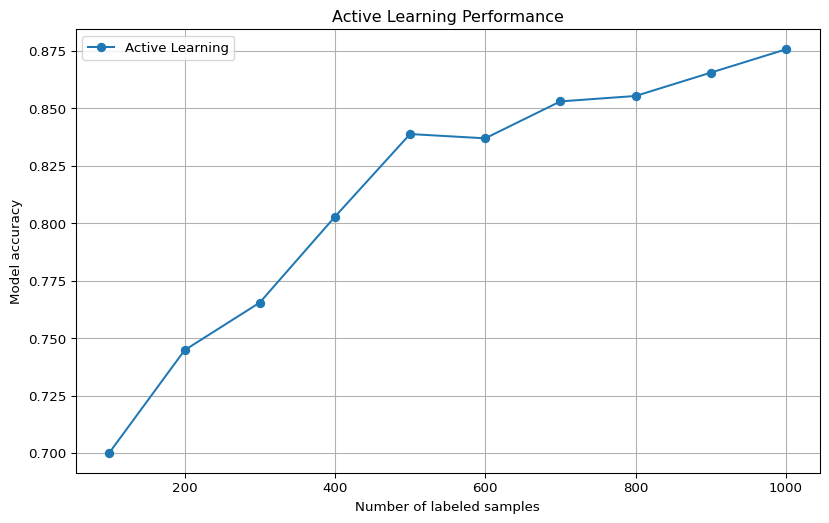
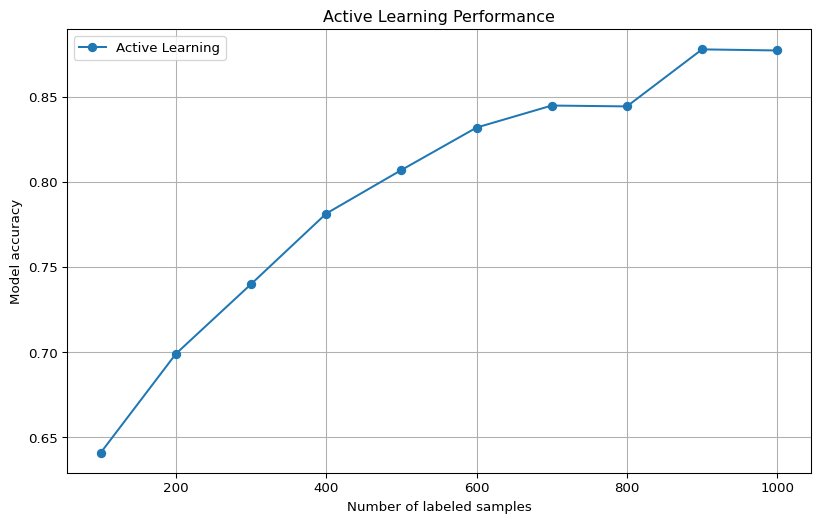
Built site for gh-pages

diff --git a/posts/model-training/influence-selection/index.html b/posts/model-training/influence-selection/index.html
@@ -248,7 +248,7 @@ pre > code.sourceCode > span > a:first-child::before { text-decoration: underlin
 <p>These methods select samples that the model is most uncertain about.</p>
 <section id="least-confidence" class="level3">
 <h3 class="anchored" data-anchor-id="least-confidence">Least Confidence</h3>
-<div id="17c171ca" class="cell" data-execution_count="1">
+<div id="18c45f50" class="cell" data-execution_count="1">
 <div class="sourceCode cell-code" id="cb1"><pre class="sourceCode python code-with-copy"><code class="sourceCode python"><span id="cb1-1"><a href="#cb1-1" aria-hidden="true" tabindex="-1"></a><span class="kw">def</span> least_confidence(model, unlabeled_pool, k):</span>
 <span id="cb1-2"><a href="#cb1-2" aria-hidden="true" tabindex="-1"></a>    <span class="co"># Predict probabilities for each sample in the unlabeled pool</span></span>
 <span id="cb1-3"><a href="#cb1-3" aria-hidden="true" tabindex="-1"></a>    probabilities <span class="op">=</span> model.predict_proba(unlabeled_pool)</span>
@@ -265,7 +265,7 @@ pre > code.sourceCode > span > a:first-child::before { text-decoration: underlin
 <section id="margin-sampling" class="level3">
 <h3 class="anchored" data-anchor-id="margin-sampling">Margin Sampling</h3>
 <p>Selects samples with the smallest margin between the two most likely classes:</p>
-<div id="ed119f3c" class="cell" data-execution_count="2">
+<div id="49259a6b" class="cell" data-execution_count="2">
 <div class="sourceCode cell-code" id="cb2"><pre class="sourceCode python code-with-copy"><code class="sourceCode python"><span id="cb2-1"><a href="#cb2-1" aria-hidden="true" tabindex="-1"></a><span class="kw">def</span> margin_sampling(model, unlabeled_pool, k):</span>
 <span id="cb2-2"><a href="#cb2-2" aria-hidden="true" tabindex="-1"></a>    <span class="co"># Predict probabilities for each sample in the unlabeled pool</span></span>
 <span id="cb2-3"><a href="#cb2-3" aria-hidden="true" tabindex="-1"></a>    probabilities <span class="op">=</span> model.predict_proba(unlabeled_pool)</span>
@@ -285,7 +285,7 @@ pre > code.sourceCode > span > a:first-child::before { text-decoration: underlin
 <section id="entropy-based-sampling" class="level3">
 <h3 class="anchored" data-anchor-id="entropy-based-sampling">Entropy-Based Sampling</h3>
 <p>Selects samples with the highest predictive entropy:</p>
-<div id="f6b754e5" class="cell" data-execution_count="3">
+<div id="f2f0cc96" class="cell" data-execution_count="3">
 <div class="sourceCode cell-code" id="cb3"><pre class="sourceCode python code-with-copy"><code class="sourceCode python"><span id="cb3-1"><a href="#cb3-1" aria-hidden="true" tabindex="-1"></a><span class="kw">def</span> entropy_sampling(model, unlabeled_pool, k):</span>
 <span id="cb3-2"><a href="#cb3-2" aria-hidden="true" tabindex="-1"></a>    <span class="co"># Predict probabilities for each sample in the unlabeled pool</span></span>
 <span id="cb3-3"><a href="#cb3-3" aria-hidden="true" tabindex="-1"></a>    probabilities <span class="op">=</span> model.predict_proba(unlabeled_pool)</span>
@@ -302,7 +302,7 @@ pre > code.sourceCode > span > a:first-child::before { text-decoration: underlin
 <section id="bayesian-active-learning-by-disagreement-bald" class="level3">
 <h3 class="anchored" data-anchor-id="bayesian-active-learning-by-disagreement-bald">Bayesian Active Learning by Disagreement (BALD)</h3>
 <p>For Bayesian models, BALD selects samples that maximize the mutual information between predictions and model parameters:</p>
-<div id="c34f3cd7" class="cell" data-execution_count="4">
+<div id="0d2ed53f" class="cell" data-execution_count="4">
 <div class="sourceCode cell-code" id="cb4"><pre class="sourceCode python code-with-copy"><code class="sourceCode python"><span id="cb4-1"><a href="#cb4-1" aria-hidden="true" tabindex="-1"></a><span class="kw">def</span> bald_sampling(bayesian_model, unlabeled_pool, k, n_samples<span class="op">=</span><span class="dv">100</span>):</span>
 <span id="cb4-2"><a href="#cb4-2" aria-hidden="true" tabindex="-1"></a>    <span class="co"># Get multiple predictions by sampling from the model's posterior</span></span>
 <span id="cb4-3"><a href="#cb4-3" aria-hidden="true" tabindex="-1"></a>    probs_samples <span class="op">=</span> []</span>
@@ -338,7 +338,7 @@ pre > code.sourceCode > span > a:first-child::before { text-decoration: underlin
 <p>These methods aim to select a diverse set of examples to ensure broad coverage of the input space.</p>
 <section id="clustering-based-sampling" class="level3">
 <h3 class="anchored" data-anchor-id="clustering-based-sampling">Clustering-Based Sampling</h3>
-<div id="ee44c376" class="cell" data-execution_count="5">
+<div id="4248ccbf" class="cell" data-execution_count="5">
 <div class="sourceCode cell-code" id="cb5"><pre class="sourceCode python code-with-copy"><code class="sourceCode python"><span id="cb5-1"><a href="#cb5-1" aria-hidden="true" tabindex="-1"></a><span class="kw">def</span> clustering_based_sampling(unlabeled_pool, k, n_clusters<span class="op">=</span><span class="va">None</span>):</span>
 <span id="cb5-2"><a href="#cb5-2" aria-hidden="true" tabindex="-1"></a>    <span class="cf">if</span> n_clusters <span class="kw">is</span> <span class="va">None</span>:</span>
 <span id="cb5-3"><a href="#cb5-3" aria-hidden="true" tabindex="-1"></a>        n_clusters <span class="op">=</span> k</span>
@@ -372,7 +372,7 @@ pre > code.sourceCode > span > a:first-child::before { text-decoration: underlin
 <section id="core-set-approach" class="level3">
 <h3 class="anchored" data-anchor-id="core-set-approach">Core-Set Approach</h3>
 <p>The core-set approach aims to select a subset of data that best represents the whole dataset:</p>
-<div id="c47ac304" class="cell" data-execution_count="6">
+<div id="bf51f60e" class="cell" data-execution_count="6">
 <div class="sourceCode cell-code" id="cb6"><pre class="sourceCode python code-with-copy"><code class="sourceCode python"><span id="cb6-1"><a href="#cb6-1" aria-hidden="true" tabindex="-1"></a><span class="kw">def</span> core_set_sampling(labeled_pool, unlabeled_pool, k):</span>
 <span id="cb6-2"><a href="#cb6-2" aria-hidden="true" tabindex="-1"></a>    <span class="co"># Combine labeled and unlabeled data for distance calculations</span></span>
 <span id="cb6-3"><a href="#cb6-3" aria-hidden="true" tabindex="-1"></a>    all_data <span class="op">=</span> np.vstack((labeled_pool, unlabeled_pool))</span>
@@ -397,7 +397,7 @@ pre > code.sourceCode > span > a:first-child::before { text-decoration: underlin
 <section id="expected-model-change" class="level2">
 <h2 class="anchored" data-anchor-id="expected-model-change">Expected Model Change</h2>
 <p>The Expected Model Change (EMC) method selects samples that would cause the greatest change in the model if they were labeled:</p>
-<div id="6e82f613" class="cell" data-execution_count="7">
+<div id="477b658a" class="cell" data-execution_count="7">
 <div class="sourceCode cell-code" id="cb7"><pre class="sourceCode python code-with-copy"><code class="sourceCode python"><span id="cb7-1"><a href="#cb7-1" aria-hidden="true" tabindex="-1"></a><span class="kw">def</span> expected_model_change(model, unlabeled_pool, k):</span>
 <span id="cb7-2"><a href="#cb7-2" aria-hidden="true" tabindex="-1"></a>    <span class="co"># Predict probabilities for each sample in the unlabeled pool</span></span>
 <span id="cb7-3"><a href="#cb7-3" aria-hidden="true" tabindex="-1"></a>    probabilities <span class="op">=</span> model.predict_proba(unlabeled_pool)</span>
@@ -431,7 +431,7 @@ pre > code.sourceCode > span > a:first-child::before { text-decoration: underlin
 <section id="expected-error-reduction" class="level2">
 <h2 class="anchored" data-anchor-id="expected-error-reduction">Expected Error Reduction</h2>
 <p>The Expected Error Reduction method selects samples that, when labeled, would minimally reduce the model’s expected error:</p>
-<div id="fc30d0f4" class="cell" data-execution_count="8">
+<div id="86d341a2" class="cell" data-execution_count="8">
 <div class="sourceCode cell-code" id="cb8"><pre class="sourceCode python code-with-copy"><code class="sourceCode python"><span id="cb8-1"><a href="#cb8-1" aria-hidden="true" tabindex="-1"></a><span class="kw">def</span> expected_error_reduction(model, unlabeled_pool, unlabeled_pool_remaining, k):</span>
 <span id="cb8-2"><a href="#cb8-2" aria-hidden="true" tabindex="-1"></a>    <span class="co"># Predict probabilities for all remaining unlabeled data</span></span>
 <span id="cb8-3"><a href="#cb8-3" aria-hidden="true" tabindex="-1"></a>    current_probs <span class="op">=</span> model.predict_proba(unlabeled_pool_remaining)</span>
@@ -473,7 +473,7 @@ pre > code.sourceCode > span > a:first-child::before { text-decoration: underlin
 <section id="influence-functions" class="level2">
 <h2 class="anchored" data-anchor-id="influence-functions">Influence Functions</h2>
 <p>Influence functions approximate the effect of adding or removing a training example without retraining the model:</p>
-<div id="76ea6a67" class="cell" data-execution_count="9">
+<div id="346e8092" class="cell" data-execution_count="9">
 <div class="sourceCode cell-code" id="cb9"><pre class="sourceCode python code-with-copy"><code class="sourceCode python"><span id="cb9-1"><a href="#cb9-1" aria-hidden="true" tabindex="-1"></a><span class="kw">def</span> influence_function_sampling(model, unlabeled_pool, labeled_pool, k, labels):</span>
 <span id="cb9-2"><a href="#cb9-2" aria-hidden="true" tabindex="-1"></a>    influences <span class="op">=</span> []</span>
 <span id="cb9-3"><a href="#cb9-3" aria-hidden="true" tabindex="-1"></a>    </span>
@@ -493,7 +493,7 @@ pre > code.sourceCode > span > a:first-child::before { text-decoration: underlin
 <section id="query-by-committee" class="level2">
 <h2 class="anchored" data-anchor-id="query-by-committee">Query-by-Committee</h2>
 <p>Query-by-Committee (QBC) methods train multiple models (a committee) and select samples where they disagree:</p>
-<div id="342af66c" class="cell" data-execution_count="10">
+<div id="9597bd48" class="cell" data-execution_count="10">
 <div class="sourceCode cell-code" id="cb10"><pre class="sourceCode python code-with-copy"><code class="sourceCode python"><span id="cb10-1"><a href="#cb10-1" aria-hidden="true" tabindex="-1"></a><span class="kw">def</span> query_by_committee(committee_models, unlabeled_pool, k):</span>
 <span id="cb10-2"><a href="#cb10-2" aria-hidden="true" tabindex="-1"></a>    <span class="co"># Get predictions from all committee members</span></span>
 <span id="cb10-3"><a href="#cb10-3" aria-hidden="true" tabindex="-1"></a>    all_predictions <span class="op">=</span> []</span>
@@ -529,7 +529,7 @@ pre > code.sourceCode > span > a:first-child::before { text-decoration: underlin
 <ol type="1">
 <li><strong>Greedy Selection with Diversity</strong>: Select one sample at a time, then update the diversity metrics to avoid selecting similar samples.</li>
 </ol>
-<div id="30c91437" class="cell" data-execution_count="11">
+<div id="c1d1a685" class="cell" data-execution_count="11">
 <div class="sourceCode cell-code" id="cb11"><pre class="sourceCode python code-with-copy"><code class="sourceCode python"><span id="cb11-1"><a href="#cb11-1" aria-hidden="true" tabindex="-1"></a><span class="kw">def</span> batch_selection_with_diversity(model, unlabeled_pool, k, lambda_diversity<span class="op">=</span><span class="fl">0.5</span>):</span>
 <span id="cb11-2"><a href="#cb11-2" aria-hidden="true" tabindex="-1"></a>    selected_indices <span class="op">=</span> []</span>
 <span id="cb11-3"><a href="#cb11-3" aria-hidden="true" tabindex="-1"></a>    remaining_indices <span class="op">=</span> <span class="bu">list</span>(<span class="bu">range</span>(<span class="bu">len</span>(unlabeled_pool)))</span>
@@ -603,7 +603,7 @@ pre > code.sourceCode > span > a:first-child::before { text-decoration: underlin
 <section id="learning-curves" class="level3">
 <h3 class="anchored" data-anchor-id="learning-curves">Learning Curves</h3>
 <p>Plot model performance vs.&nbsp;number of labeled samples:</p>
-<div id="7e928e3e" class="cell" data-execution_count="12">
+<div id="5d037211" class="cell" data-execution_count="12">
 <div class="sourceCode cell-code" id="cb12"><pre class="sourceCode python code-with-copy"><code class="sourceCode python"><span id="cb12-1"><a href="#cb12-1" aria-hidden="true" tabindex="-1"></a><span class="kw">def</span> plot_learning_curve(model_factory, X_train, y_train, X_test, y_test, </span>
 <span id="cb12-2"><a href="#cb12-2" aria-hidden="true" tabindex="-1"></a>                        active_learning_strategy, initial_size<span class="op">=</span><span class="dv">10</span>, </span>
 <span id="cb12-3"><a href="#cb12-3" aria-hidden="true" tabindex="-1"></a>                        batch_size<span class="op">=</span><span class="dv">10</span>, n_iterations<span class="op">=</span><span class="dv">20</span>):</span>
@@ -663,7 +663,7 @@ pre > code.sourceCode > span > a:first-child::before { text-decoration: underlin
 <h2 class="anchored" data-anchor-id="practical-examples">Practical Examples</h2>
 <section id="image-classification-with-uncertainty-sampling" class="level3">
 <h3 class="anchored" data-anchor-id="image-classification-with-uncertainty-sampling">Image Classification with Uncertainty Sampling</h3>
-<div id="42185314" class="cell" data-execution_count="13">
+<div id="99de6460" class="cell" data-execution_count="13">
 <div class="sourceCode cell-code" id="cb13"><pre class="sourceCode python code-with-copy"><code class="sourceCode python"><span id="cb13-1"><a href="#cb13-1" aria-hidden="true" tabindex="-1"></a><span class="im">import</span> numpy <span class="im">as</span> np</span>
 <span id="cb13-2"><a href="#cb13-2" aria-hidden="true" tabindex="-1"></a><span class="im">from</span> sklearn.datasets <span class="im">import</span> fetch_openml</span>
 <span id="cb13-3"><a href="#cb13-3" aria-hidden="true" tabindex="-1"></a><span class="im">from</span> sklearn.ensemble <span class="im">import</span> RandomForestClassifier</span>
@@ -730,16 +730,16 @@ pre > code.sourceCode > span > a:first-child::before { text-decoration: underlin
 <span id="cb13-64"><a href="#cb13-64" aria-hidden="true" tabindex="-1"></a>plt.legend()</span>
 <span id="cb13-65"><a href="#cb13-65" aria-hidden="true" tabindex="-1"></a>plt.show()</span></code><button title="Copy to Clipboard" class="code-copy-button"><i class="bi"></i></button></pre></div>
 <div class="cell-output cell-output-stdout">
-<pre><code>Iteration 1: 100 labeled samples, accuracy: 0.7002
-Iteration 2: 200 labeled samples, accuracy: 0.7448
-Iteration 3: 300 labeled samples, accuracy: 0.7655
-Iteration 4: 400 labeled samples, accuracy: 0.8029
-Iteration 5: 500 labeled samples, accuracy: 0.8389
-Iteration 6: 600 labeled samples, accuracy: 0.8370
-Iteration 7: 700 labeled samples, accuracy: 0.8531
-Iteration 8: 800 labeled samples, accuracy: 0.8554
-Iteration 9: 900 labeled samples, accuracy: 0.8656
-Iteration 10: 1000 labeled samples, accuracy: 0.8757</code></pre>
+<pre><code>Iteration 1: 100 labeled samples, accuracy: 0.6410
+Iteration 2: 200 labeled samples, accuracy: 0.6991
+Iteration 3: 300 labeled samples, accuracy: 0.7400
+Iteration 4: 400 labeled samples, accuracy: 0.7814
+Iteration 5: 500 labeled samples, accuracy: 0.8070
+Iteration 6: 600 labeled samples, accuracy: 0.8319
+Iteration 7: 700 labeled samples, accuracy: 0.8449
+Iteration 8: 800 labeled samples, accuracy: 0.8444
+Iteration 9: 900 labeled samples, accuracy: 0.8779
+Iteration 10: 1000 labeled samples, accuracy: 0.8772</code></pre>
 </div>
 <div class="cell-output cell-output-display">
 <div>
@@ -752,7 +752,7 @@ Iteration 10: 1000 labeled samples, accuracy: 0.8757</code></pre>
 </section>
 <section id="text-classification-with-query-by-committee" class="level3">
 <h3 class="anchored" data-anchor-id="text-classification-with-query-by-committee">Text Classification with Query-by-Committee</h3>
-<div id="3664a5fa" class="cell" data-execution_count="14">
+<div id="71f7d412" class="cell" data-execution_count="14">
 <div class="sourceCode cell-code" id="cb15"><pre class="sourceCode python code-with-copy"><code class="sourceCode python"><span id="cb15-1"><a href="#cb15-1" aria-hidden="true" tabindex="-1"></a><span class="im">from</span> sklearn.feature_extraction.text <span class="im">import</span> TfidfVectorizer</span>
 <span id="cb15-2"><a href="#cb15-2" aria-hidden="true" tabindex="-1"></a><span class="im">from</span> sklearn.naive_bayes <span class="im">import</span> MultinomialNB</span>
 <span id="cb15-3"><a href="#cb15-3" aria-hidden="true" tabindex="-1"></a><span class="im">from</span> sklearn.svm <span class="im">import</span> SVC</span>
@@ -827,16 +827,16 @@ Iteration 10: 1000 labeled samples, accuracy: 0.8757</code></pre>
 <span id="cb15-72"><a href="#cb15-72" aria-hidden="true" tabindex="-1"></a>        labeled_indices <span class="op">=</span> np.append(labeled_indices, selected_indices)</span>
 <span id="cb15-73"><a href="#cb15-73" aria-hidden="true" tabindex="-1"></a>        unlabeled_indices <span class="op">=</span> np.setdiff1d(unlabeled_indices, selected_indices)</span></code><button title="Copy to Clipboard" class="code-copy-button"><i class="bi"></i></button></pre></div>
 <div class="cell-output cell-output-stdout">
-<pre><code>Iteration 1: 20 labeled samples, accuracy: 0.2590
-Iteration 2: 30 labeled samples, accuracy: 0.4334
-Iteration 3: 40 labeled samples, accuracy: 0.3016
-Iteration 4: 50 labeled samples, accuracy: 0.3269
-Iteration 5: 60 labeled samples, accuracy: 0.3928
-Iteration 6: 70 labeled samples, accuracy: 0.4274
-Iteration 7: 80 labeled samples, accuracy: 0.4048
-Iteration 8: 90 labeled samples, accuracy: 0.5652
-Iteration 9: 100 labeled samples, accuracy: 0.6525
-Iteration 10: 110 labeled samples, accuracy: 0.7184</code></pre>
+<pre><code>Iteration 1: 20 labeled samples, accuracy: 0.2124
+Iteration 2: 30 labeled samples, accuracy: 0.2690
+Iteration 3: 40 labeled samples, accuracy: 0.3662
+Iteration 4: 50 labeled samples, accuracy: 0.5346
+Iteration 5: 60 labeled samples, accuracy: 0.5067
+Iteration 6: 70 labeled samples, accuracy: 0.5486
+Iteration 7: 80 labeled samples, accuracy: 0.6079
+Iteration 8: 90 labeled samples, accuracy: 0.5859
+Iteration 9: 100 labeled samples, accuracy: 0.7450
+Iteration 10: 110 labeled samples, accuracy: 0.7450</code></pre>
 </div>
 </div>
 </section>
@@ -860,7 +860,7 @@ Iteration 10: 110 labeled samples, accuracy: 0.7184</code></pre>
 <li><strong>Batch Normalization</strong>: Be careful with batch normalization layers when retraining.</li>
 <li><strong>Data Augmentation</strong>: Apply data augmentation to increase the effective size of the labeled pool.</li>
 </ol>
-<div id="80aeb7ae" class="cell" data-execution_count="15">
+<div id="fc973641" class="cell" data-execution_count="15">
 <div class="sourceCode cell-code" id="cb17"><pre class="sourceCode python code-with-copy"><code class="sourceCode python"><span id="cb17-1"><a href="#cb17-1" aria-hidden="true" tabindex="-1"></a><span class="im">import</span> torch</span>
 <span id="cb17-2"><a href="#cb17-2" aria-hidden="true" tabindex="-1"></a><span class="im">import</span> torch.nn <span class="im">as</span> nn</span>
 <span id="cb17-3"><a href="#cb17-3" aria-hidden="true" tabindex="-1"></a><span class="im">import</span> torch.nn.functional <span class="im">as</span> F</span>
@@ -931,7 +931,7 @@ Iteration 10: 110 labeled samples, accuracy: 0.7184</code></pre>
 <li><strong>Co-Training</strong>: Train multiple models and use their predictions to teach each other.</li>
 <li><strong>Consistency Regularization</strong>: Enforce consistent predictions across different perturbations.</li>
 </ol>
-<div id="9d2b3d92" class="cell" data-execution_count="16">
+<div id="249a72c7" class="cell" data-execution_count="16">
 <div class="sourceCode cell-code" id="cb18"><pre class="sourceCode python code-with-copy"><code class="sourceCode python"><span id="cb18-1"><a href="#cb18-1" aria-hidden="true" tabindex="-1"></a><span class="kw">def</span> semi_supervised_active_learning(labeled_X, labeled_y, unlabeled_X, model, confidence_threshold<span class="op">=</span><span class="fl">0.95</span>):</span>
 <span id="cb18-2"><a href="#cb18-2" aria-hidden="true" tabindex="-1"></a>    <span class="co"># Train model on labeled data</span></span>
 <span id="cb18-3"><a href="#cb18-3" aria-hidden="true" tabindex="-1"></a>    model.fit(labeled_X, labeled_y)</span>

diff --git a/posts/model-training/albumentations-vs-torchvision/index.html b/posts/model-training/albumentations-vs-torchvision/index.html
@@ -214,7 +214,7 @@ pre > code.sourceCode > span > a:first-child::before { text-decoration: underlin
 </section>
 <section id="basic-setup-and-imports" class="level2">
 <h2 class="anchored" data-anchor-id="basic-setup-and-imports">Basic Setup and Imports</h2>
-<div id="cad6f7ad" class="cell" data-execution_count="1">
+<div id="8155b9b0" class="cell" data-execution_count="1">
 <div class="sourceCode cell-code" id="cb2"><pre class="sourceCode python code-with-copy"><code class="sourceCode python"><span id="cb2-1"><a href="#cb2-1" aria-hidden="true" tabindex="-1"></a><span class="im">import</span> torch</span>
 <span id="cb2-2"><a href="#cb2-2" aria-hidden="true" tabindex="-1"></a><span class="im">import</span> torchvision.transforms <span class="im">as</span> T</span>
 <span id="cb2-3"><a href="#cb2-3" aria-hidden="true" tabindex="-1"></a><span class="im">from</span> torchvision.transforms <span class="im">import</span> functional <span class="im">as</span> TF</span>
@@ -284,7 +284,7 @@ pre > code.sourceCode > span > a:first-child::before { text-decoration: underlin
 <h2 class="anchored" data-anchor-id="basic-transformations-comparison">Basic Transformations Comparison</h2>
 <section id="image-loading-and-format-differences" class="level3">
 <h3 class="anchored" data-anchor-id="image-loading-and-format-differences">Image Loading and Format Differences</h3>
-<div id="4e264e6c" class="cell" data-execution_count="2">
+<div id="56785b3f" class="cell" data-execution_count="2">
 <div class="sourceCode cell-code" id="cb3"><pre class="sourceCode python code-with-copy"><code class="sourceCode python"><span id="cb3-1"><a href="#cb3-1" aria-hidden="true" tabindex="-1"></a><span class="co"># TorchVision approach</span></span>
 <span id="cb3-2"><a href="#cb3-2" aria-hidden="true" tabindex="-1"></a><span class="kw">def</span> load_image_torchvision(path):</span>
 <span id="cb3-3"><a href="#cb3-3" aria-hidden="true" tabindex="-1"></a>    <span class="cf">return</span> Image.<span class="bu">open</span>(path).convert(<span class="st">'RGB'</span>)</span>
@@ -303,7 +303,7 @@ pre > code.sourceCode > span > a:first-child::before { text-decoration: underlin
 </section>
 <section id="basic-augmentations" class="level3">
 <h3 class="anchored" data-anchor-id="basic-augmentations">Basic Augmentations</h3>
-<div id="5486b4c0" class="cell" data-execution_count="3">
+<div id="181c2a11" class="cell" data-execution_count="3">
 <div class="sourceCode cell-code" id="cb4"><pre class="sourceCode python code-with-copy"><code class="sourceCode python"><span id="cb4-1"><a href="#cb4-1" aria-hidden="true" tabindex="-1"></a><span class="co"># TorchVision transforms</span></span>
 <span id="cb4-2"><a href="#cb4-2" aria-hidden="true" tabindex="-1"></a>torchvision_transform <span class="op">=</span> T.Compose([</span>
 <span id="cb4-3"><a href="#cb4-3" aria-hidden="true" tabindex="-1"></a>    T.Resize((<span class="dv">224</span>, <span class="dv">224</span>)),</span>
@@ -461,7 +461,7 @@ pre > code.sourceCode > span > a:first-child::before { text-decoration: underlin
 </section>
 <section id="performance-comparison" class="level2">
 <h2 class="anchored" data-anchor-id="performance-comparison">Performance Comparison</h2>
-<div id="653c4edb" class="cell" data-execution_count="4">
+<div id="1768b2fb" class="cell" data-execution_count="4">
 <div class="sourceCode cell-code" id="cb11"><pre class="sourceCode python code-with-copy"><code class="sourceCode python"><span id="cb11-1"><a href="#cb11-1" aria-hidden="true" tabindex="-1"></a><span class="im">import</span> time</span>
 <span id="cb11-2"><a href="#cb11-2" aria-hidden="true" tabindex="-1"></a></span>
 <span id="cb11-3"><a href="#cb11-3" aria-hidden="true" tabindex="-1"></a><span class="kw">def</span> benchmark_transforms(image, iterations<span class="op">=</span><span class="dv">1000</span>):</span>
@@ -487,9 +487,9 @@ pre > code.sourceCode > span > a:first-child::before { text-decoration: underlin
 <span id="cb11-23"><a href="#cb11-23" aria-hidden="true" tabindex="-1"></a><span class="co"># Run benchmark</span></span>
 <span id="cb11-24"><a href="#cb11-24" aria-hidden="true" tabindex="-1"></a>benchmark_transforms(torch_img)</span></code><button title="Copy to Clipboard" class="code-copy-button"><i class="bi"></i></button></pre></div>
 <div class="cell-output cell-output-stdout">
-<pre><code>TorchVision: 37.176s (1000 iterations)
-Albumentations: 2.861s (1000 iterations)
-Speedup: 13.00x</code></pre>
+<pre><code>TorchVision: 39.096s (1000 iterations)
+Albumentations: 3.105s (1000 iterations)
+Speedup: 12.59x</code></pre>
 </div>
 </div>
 </section>
